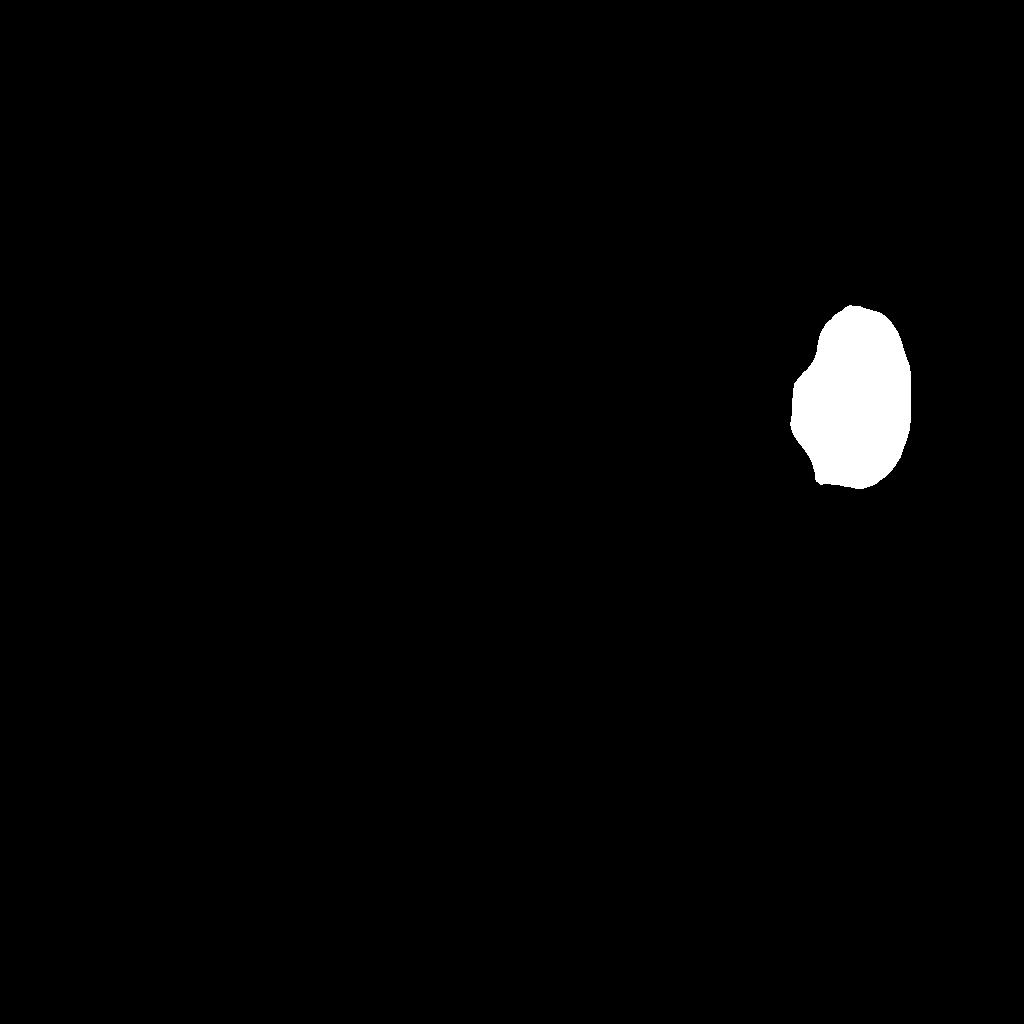
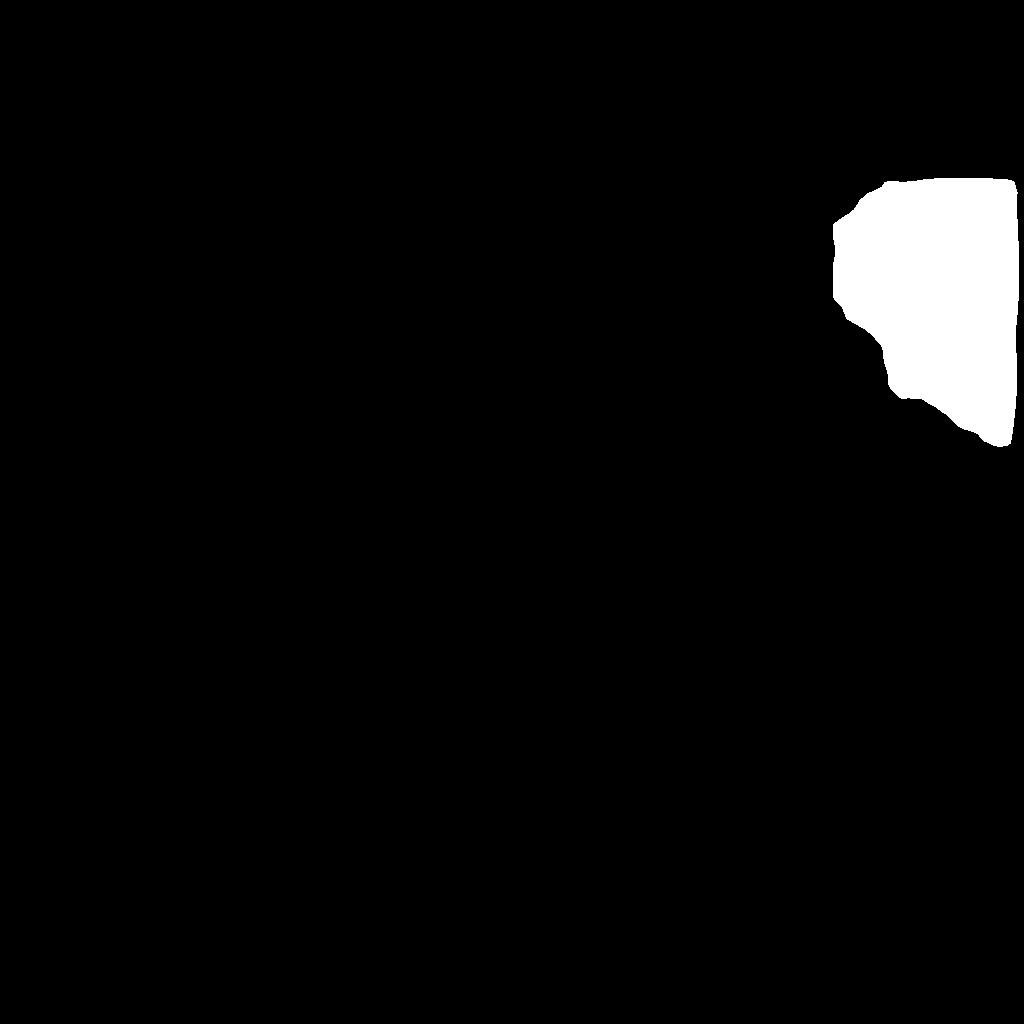
2D tracking fixed

Changed region(s): [[0.75, 0.1562, 1.0, 0.5]]

diff --git a/Target_bank.py b/Target_bank.py
@@ -184,13 +184,28 @@ def update_grape_center(index):
 
     if g_param.image_number > 0:
         if g_param.TB[index].last_updated < g_param.image_number:
-            capture_pos_r = rotation_coordinate_sys(g_param.trans.capture_pos[0],
-                                                    g_param.trans.capture_pos[1], -g_param.base_rotation_ang)[1]
-            prev_capture_pos_r = rotation_coordinate_sys(g_param.trans.prev_capture_pos[0],
-                                                         g_param.trans.prev_capture_pos[1],
-                                                         -g_param.base_rotation_ang)[1]
-            delta_x = capture_pos_r-prev_capture_pos_r
-            delta_y = g_param.trans.capture_pos[2] - g_param.trans.prev_capture_pos[2]
+            """
+            In case that there is a fix advancement along the line, next code will work. else, uncomment the next
+            section. 
+            """
+            if g_param.direction == 'up':
+                delta_x, delta_y = 0, 0.15
+            elif g_param.direction == 'right':
+                delta_x, delta_y = -0.1, 0
+            elif g_param.direction == 'down':
+                delta_x, delta_y = 0, -0.15
+            elif g_param.direction == 'stay':
+                delta_x, delta_y = -0.1, 0
+            # capture_pos_r = rotation_coordinate_sys(g_param.trans.capture_pos[0],
+            #                                         g_param.trans.capture_pos[1], -g_param.base_rotation_ang)[1]
+            # prev_capture_pos_r = rotation_coordinate_sys(g_param.trans.prev_capture_pos[0],
+            #                                              g_param.trans.prev_capture_pos[1],
+            #                                              -g_param.base_rotation_ang)[1]
+            # delta_x = capture_pos_r-prev_capture_pos_r
+            # delta_y = g_param.trans.capture_pos[2] - g_param.trans.prev_capture_pos[2]
+            # delta_plat_x, delta_plat_y = 0, 0 #rotation_coordinate_sys(0, g_param.sum_platform_steps, g_param.base_rotation_ang)
+
+
             g_param.TB[index].x_center += delta_x
             g_param.TB[index].y_center += delta_y
 
@@ -377,8 +392,8 @@ def add_to_target_bank(target):
     too_close = check_close_to_edge(target)
     temp_grape_world = g_param.trans.grape_world(target[0], target[1])
     grape_base = g_param.trans.grape_base(target[0], target[1])
-    # grape_in_TB, temp_target_index = check_if_in_TB_pixels(target)
-    grape_in_TB, temp_target_index = check_if_in_TB(temp_grape_world, target) # TODO- Uncomment, old function
+    # grape_in_TB, temp_target_index = check_if_in_TB_pixels(target)  # another option, less robust.
+    grape_in_TB, temp_target_index = check_if_in_TB(temp_grape_world, target)
     if grape_in_TB:
         pass
         # closer_to_center = g_param.TB[temp_target_index].dist_from_center < Target_bank.calc_dist_from_center(target)
@@ -493,5 +508,5 @@ def update_by_real_distance(ind):
     w, h, corners = calculate_w_h(g_param.TB[ind].distance, g_param.TB[ind].p_corners)
     g_param.TB[ind].x_center, g_param.TB[ind].y_center, g_param.TB[ind].w_meter, g_param.TB[ind].h_meter = x, y, w, h
     g_param.TB[ind].corners = corners
-    g_param.TB[ind].grape_world = g_param.trans.grape_world(x, y)  # FIXME- check un comment this.
+    g_param.TB[ind].grape_world = g_param.trans.grape_world(x, y)  # FIXME- check uncomment this.
     g_param.TB[ind].grape_base = g_param.trans.grape_base(x, y)

diff --git a/main.py b/main.py
@@ -1,6 +1,9 @@
 import sys
 import time
 from datetime import datetime as dt
+
+import matplotlib.pyplot as plt
+
 starting_time = dt.now()
 
 import cv2
@@ -1058,6 +1061,7 @@ def plot_2_d_track():
     # ADD TITLE WITH IMAGE NUMBER. CHECK JUMP FROM IMAGE 5 TO 10.
     """
     2D plot of the location of the grape clusters in the image (in pixels) over time.
+    Print twice the same plot every movement of the platform (Bug, but doesn't disturb anything).
     """
     if not g_param.plot_2_d_track:
         return
@@ -1084,6 +1088,7 @@ def plot_2_d_track():
             # if abs(x[-1] - x[0] > 1000 or len([t for t in x if t < - 512]) > 0): # if the grape cluster had gone out of the frame, don't track it anymore.
             #     continue
             ax.plot(x, y, marker="o", markerfacecolor=colors[i % len(colors)])
+        plt.title(f'{g_param.image_number - 1} -2d track')
         plt.show()
 
 
@@ -1267,12 +1272,12 @@ def update_database_visualization():
         TB_class.update_grape_center(j)
         grape_temp = [g_param.TB[j].x_center, g_param.TB[j].y_center]
         x_temp, y_temp = point_meter_2_pixel(d=g_param.TB[j].distance, point=[grape_temp[0], grape_temp[1]])
-        print(g_param.TB[j].distance)
-        if -2000 < x_temp < 2000:  # Update all grapes in database that still should appear in the image.
+        # Update all grapes in database that still should appear in the image. can be reduced to -600 < x_temp < 600
+        if -2000 < x_temp < 2000:
             g_param.TB[j].x_p = int(x_temp)
             g_param.TB[j].y_p = int(y_temp)
-        else:
-            break  # check if it's necessary
+        # else:
+        #     break  # rest of the images will be out of range.
 
 
 def print_image_details(step_dir):
@@ -1520,6 +1525,8 @@ if __name__ == '__main__':
                 steps_counter += 1
         else:
             first_run = False
+            continue
+
         # input("Press Enter to take picture")
         print(fg.yellow + "wait" + fg.rs, "\n")
         # take_manual_image() # TODO: uncomment for exp!!!
